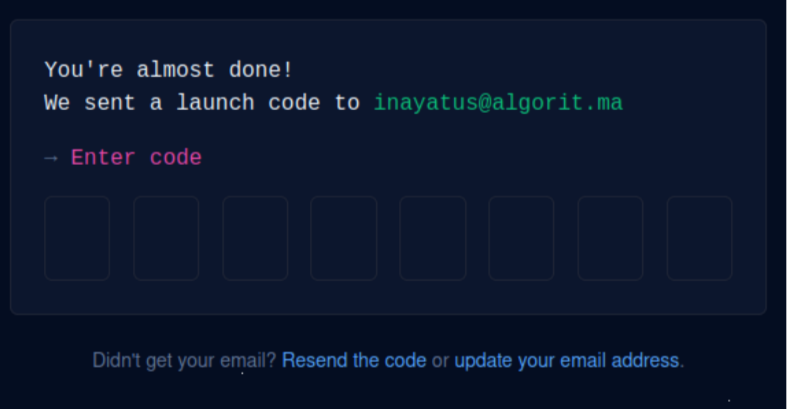
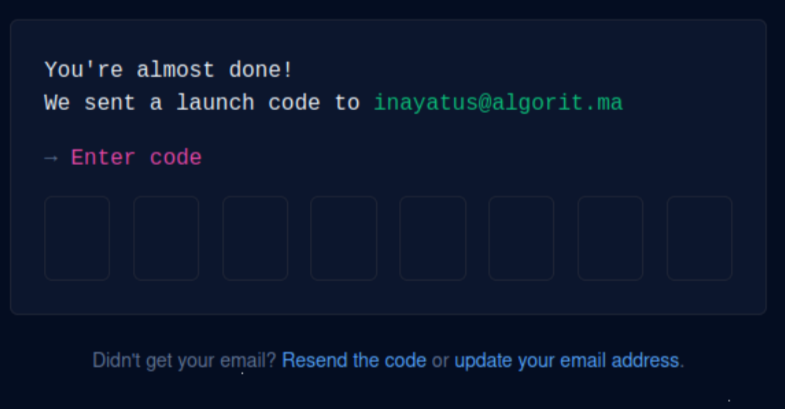
update ReadMe

diff --git a/README.md b/README.md
@@ -30,7 +30,7 @@ Untuk bertanya dan mengikuti diskusi di Algoritma Community, kamu harus memiliki
 
 3. Masukkan alamat email, password, username, serta apakah ingin berlangganan info terkait produk GitHub. Lalu silahkan klik tombol "Continue".
 
-<center> <img src="assets/signup2.png" title="signup2" width="400" height="400"/> </center>
+<center> <img src="assets/signup2.png" title="signup2" width="450" height="400"/> </center>
 
 3. Verifikasi akun Anda dengan memilih gambar yang tepat. Apabila sudah selesai, silahkan klik "Create account".
 
